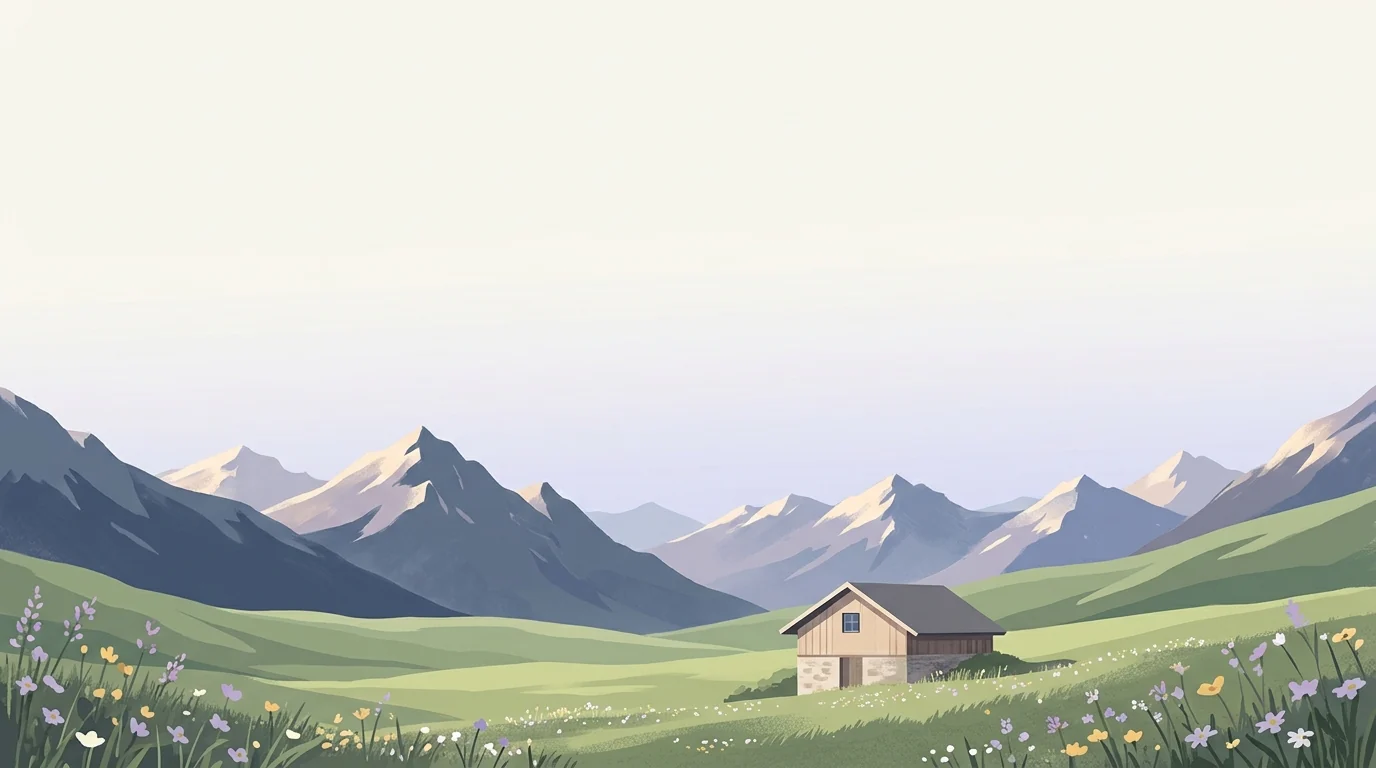
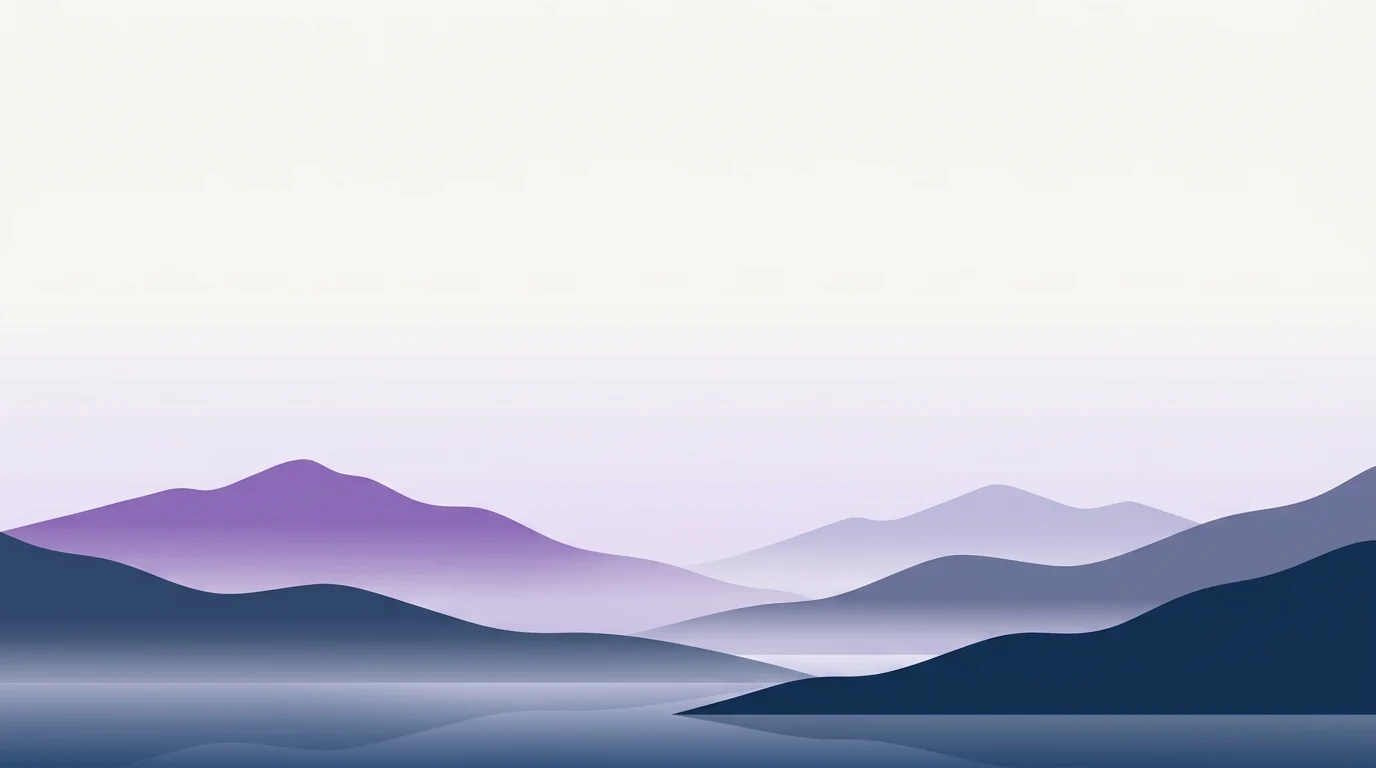
design: align hero landscape and lower canvas to CHULL LABS navy and purple palette

diff --git a/src/components/sections/ProjectsSection.tsx b/src/components/sections/ProjectsSection.tsx
@@ -4,14 +4,14 @@ export function ProjectsSection() {
   return (
     <section
       id="projects"
-      className="scroll-mt-20 bg-[#161F18] pt-16 pb-12 text-[#F4F5F2] sm:pt-24 sm:pb-16"
+      className="scroll-mt-20 bg-[#12233B] pt-16 pb-12 text-[#F4F5F8] sm:pt-24 sm:pb-16"
     >
       <div className="mx-auto max-w-5xl px-5 sm:px-8">
         <div className="flex items-center justify-between border-b border-white/10 pb-4">
-          <h2 className="text-xs font-semibold uppercase tracking-[0.18em] text-[#A4B0A6]">
+          <h2 className="text-xs font-semibold uppercase tracking-[0.18em] text-[#9FB0C7]">
             In Development
           </h2>
-          <span className="font-mono text-xs text-[#A4B0A6]">
+          <span className="font-mono text-xs text-[#9FB0C7]">
             {currentProjects.length} projects
           </span>
         </div>
@@ -20,17 +20,17 @@ export function ProjectsSection() {
           {currentProjects.map((project, index) => (
             <div
               key={project.id}
-              className="flex flex-col justify-between rounded-2xl border border-white/10 bg-white/[0.04] p-7 backdrop-blur-sm transition-colors hover:border-white/20 hover:bg-white/[0.06]"
+              className="flex flex-col justify-between rounded-2xl border border-white/10 bg-white/[0.04] p-7 backdrop-blur-sm transition-colors hover:border-[#8B61C2]/50 hover:bg-white/[0.06]"
             >
               <div>
                 <div className="flex items-center justify-between gap-3">
                   <h3 className="text-xl font-semibold tracking-tight text-white sm:text-2xl">
                     {project.name}
                   </h3>
-                  <span className="inline-flex shrink-0 items-center gap-1.5 rounded-full border border-white/15 bg-white/[0.06] px-3 py-1 font-mono text-[11px] text-[#D8DEE9]">
+                  <span className="inline-flex shrink-0 items-center gap-1.5 rounded-full border border-white/15 bg-white/[0.06] px-3 py-1 font-mono text-[11px] text-[#DCE4F0]">
                     <span
                       className={`h-1.5 w-1.5 rounded-full ${
-                        index === 0 ? "bg-[#B794F4]" : "bg-[#93C5FD]"
+                        index === 0 ? "bg-[#A982DB]" : "bg-[#7DD3FC]"
                       }`}
                       aria-hidden="true"
                     />
@@ -38,7 +38,7 @@ export function ProjectsSection() {
                   </span>
                 </div>
 
-                <p className="mt-3 text-base leading-relaxed text-[#B8C2BA]">
+                <p className="mt-3 text-base leading-relaxed text-[#B6C3D4]">
                   {project.positioning}
                 </p>
               </div>

diff --git a/src/components/sections/ContactSection.tsx b/src/components/sections/ContactSection.tsx
@@ -5,12 +5,12 @@ export function ContactSection() {
   return (
     <section
       id="contact"
-      className="scroll-mt-20 bg-[#161F18] pt-8 pb-20 text-[#F4F5F2] sm:pt-10 sm:pb-24"
+      className="scroll-mt-20 bg-[#12233B] pt-8 pb-20 text-[#F4F5F8] sm:pt-10 sm:pb-24"
     >
       <div className="mx-auto max-w-5xl px-5 sm:px-8">
         <div className="flex flex-col gap-6 rounded-2xl border border-white/10 bg-white/[0.04] p-7 backdrop-blur-sm sm:flex-row sm:items-center sm:justify-between sm:p-9">
           <div>
-            <p className="text-xs font-semibold uppercase tracking-[0.18em] text-[#A4B0A6]">
+            <p className="text-xs font-semibold uppercase tracking-[0.18em] text-[#9FB0C7]">
               Contact
             </p>
             <a
@@ -24,7 +24,7 @@ export function ContactSection() {
           <div className="flex flex-wrap items-center gap-3">
             <a
               href={`mailto:${siteConfig.contact.email}`}
-              className="inline-flex items-center justify-center rounded-full bg-white px-5 py-2 text-sm font-medium text-[#161F18] transition-colors hover:bg-white/90 focus-visible:outline-2 focus-visible:outline-offset-2 focus-visible:outline-[#B794F4]"
+              className="inline-flex items-center justify-center rounded-full bg-white px-5 py-2 text-sm font-medium text-[#12233B] transition-colors hover:bg-white/90 focus-visible:outline-2 focus-visible:outline-offset-2 focus-visible:outline-[#B794F4]"
             >
               Email us
             </a>
@@ -35,7 +35,7 @@ export function ContactSection() {
                 href={social.href}
                 target="_blank"
                 rel="noopener noreferrer"
-                className="inline-flex items-center justify-center rounded-full border border-white/15 bg-white/[0.05] px-5 py-2 text-sm font-medium text-[#F4F5F2] transition-colors hover:border-white/30 hover:bg-white/10 focus-visible:outline-2 focus-visible:outline-offset-2 focus-visible:outline-[#B794F4]"
+                className="inline-flex items-center justify-center rounded-full border border-white/15 bg-white/[0.05] px-5 py-2 text-sm font-medium text-[#F4F5F8] transition-colors hover:border-white/30 hover:bg-white/10 focus-visible:outline-2 focus-visible:outline-offset-2 focus-visible:outline-[#B794F4]"
               >
                 {social.label}
               </a>

diff --git a/src/components/common/CopyEmailButton.tsx b/src/components/common/CopyEmailButton.tsx
@@ -19,7 +19,7 @@ export function CopyEmailButton({ email }: { email: string }) {
     <button
       type="button"
       onClick={handleCopy}
-      className="inline-flex items-center justify-center rounded-full border border-white/15 bg-white/[0.05] px-5 py-2 text-sm font-medium text-[#F4F5F2] transition-colors hover:border-white/30 hover:bg-white/10 focus-visible:outline-2 focus-visible:outline-offset-2 focus-visible:outline-[#B794F4]"
+      className="inline-flex items-center justify-center rounded-full border border-white/15 bg-white/[0.05] px-5 py-2 text-sm font-medium text-[#F4F5F8] transition-colors hover:border-white/30 hover:bg-white/10 focus-visible:outline-2 focus-visible:outline-offset-2 focus-visible:outline-[#B794F4]"
     >
       {copied ? "Copied" : "Copy"}
     </button>

diff --git a/src/components/sections/HeroSection.tsx b/src/components/sections/HeroSection.tsx
@@ -19,9 +19,9 @@ export function HeroSection() {
         aria-hidden="true"
       />
 
-      {/* Bottom meadow-to-forest fade so the lower section flows seamlessly */}
+      {/* Bottom horizon-to-navy fade so the lower section flows seamlessly */}
       <div
-        className="pointer-events-none absolute inset-x-0 bottom-0 h-28 bg-gradient-to-t from-[#161F18] via-[#161F18]/45 to-transparent"
+        className="pointer-events-none absolute inset-x-0 bottom-0 h-28 bg-gradient-to-t from-[#12233B] via-[#12233B]/45 to-transparent"
         aria-hidden="true"
       />
 

diff --git a/src/components/common/Footer.tsx b/src/components/common/Footer.tsx
@@ -4,7 +4,7 @@ export function Footer() {
   const currentYear = new Date().getFullYear();
 
   return (
-    <footer className="border-t border-white/10 bg-[#161F18] text-[#A4B0A6]">
+    <footer className="border-t border-white/10 bg-[#12233B] text-[#9FB0C7]">
       <div className="mx-auto flex max-w-5xl flex-col gap-2 px-5 py-7 text-xs sm:flex-row sm:items-center sm:justify-between sm:px-8">
         <p>© {currentYear} {siteConfig.name}. All rights reserved.</p>
         <p className="font-mono">chulllabs.in</p>
